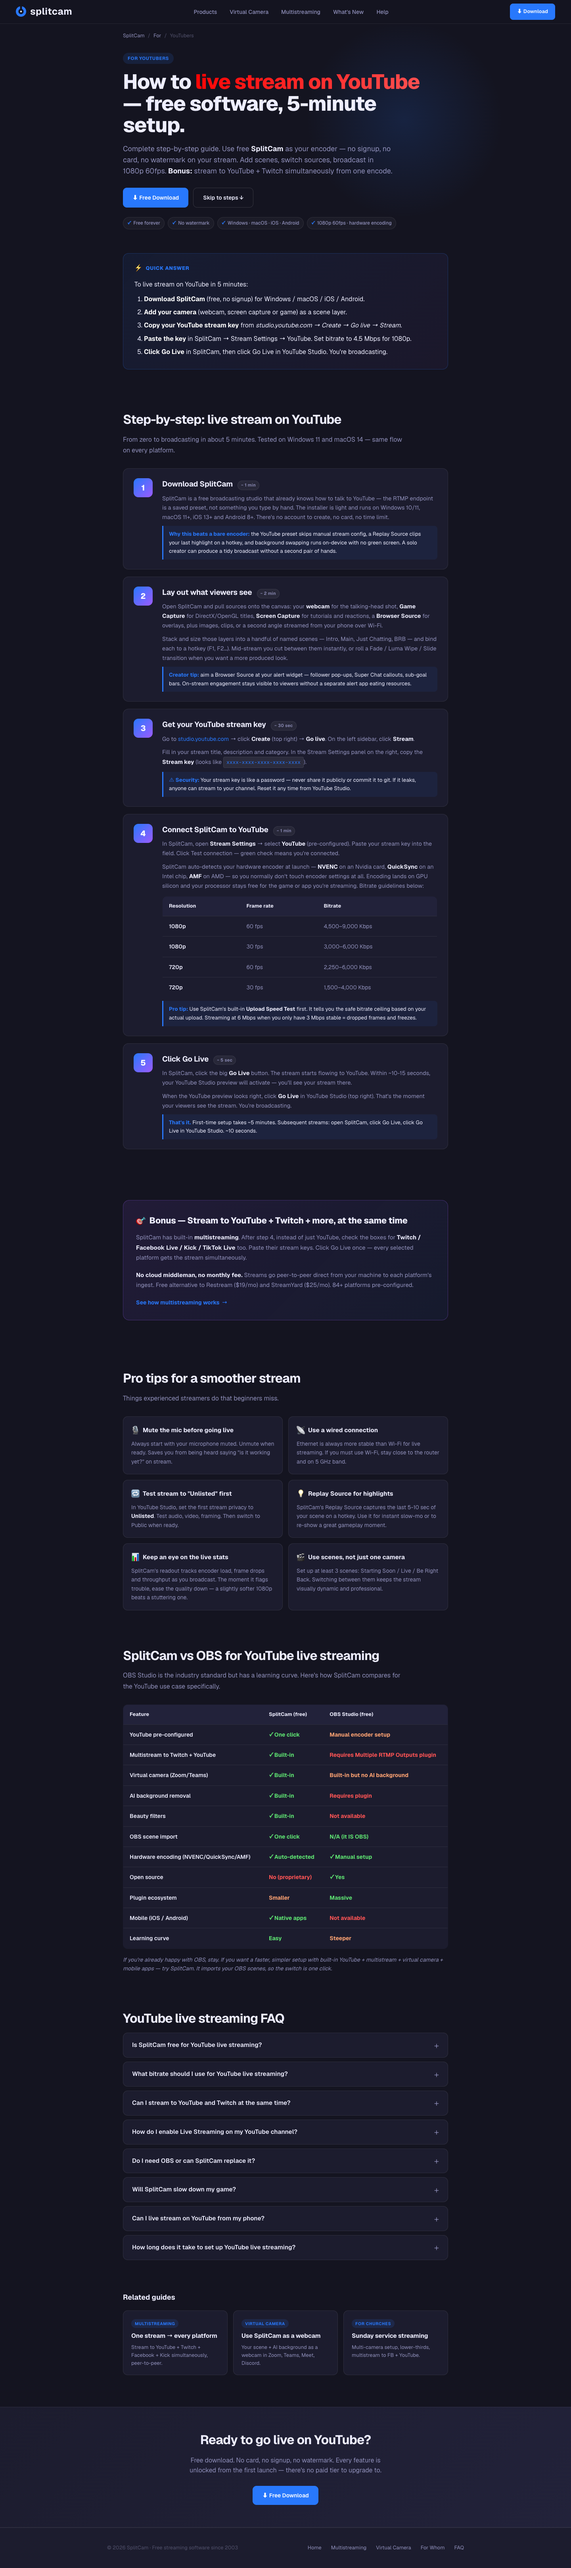
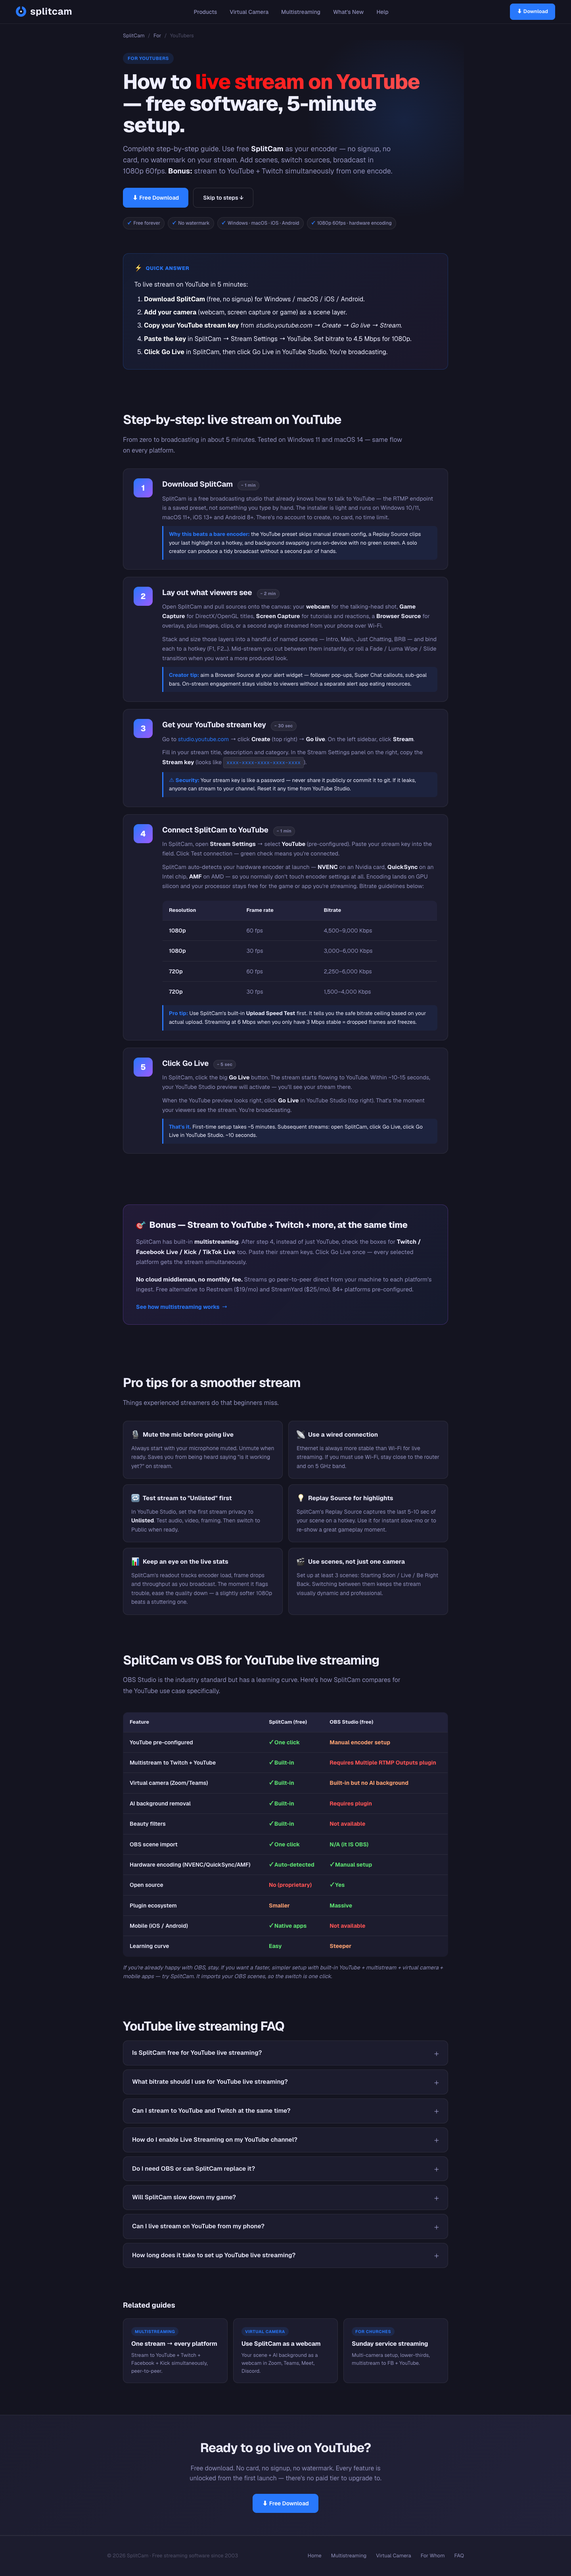
Fix mobile layout: scrollable comparison tables, contained hero-glow
Wraps every .compare-table in a .table-wrap (overflow-x:auto) so wide
tables scroll horizontally on mobile instead of clipping their rightmost
column off-screen — the OBS / vMix / ProPresenter columns are reachable
again. Adds overflow:hidden to .hero so the decorative glow no longer
adds horizontal page width. Desktop layout unchanged. Screenshots refreshed.

diff --git a/for/youtubers/index.html b/for/youtubers/index.html
@@ -134,7 +134,7 @@ nav{position:fixed;top:0;left:0;right:0;z-index:100;height:60px;display:flex;ali
 .breadcrumbs .sep{margin:0 8px}
 
 /* HERO */
-.hero{padding:32px 40px 60px;max-width:900px;margin:0 auto;position:relative}
+.hero{padding:32px 40px 60px;max-width:900px;margin:0 auto;position:relative;overflow:hidden}
 .hero-glow{position:absolute;top:-50px;right:-100px;width:500px;height:500px;background:radial-gradient(circle,rgba(40,120,252,.15),transparent 70%);pointer-events:none;z-index:0}
 .eyebrow{display:inline-block;padding:5px 12px;background:var(--blue-dim);color:var(--blue);font-size:11.5px;font-weight:700;letter-spacing:.6px;text-transform:uppercase;border-radius:99px;margin-bottom:18px;position:relative;z-index:1}
 .h1{font-size:clamp(34px,4.5vw,52px);font-weight:800;line-height:1.05;letter-spacing:-1.5px;margin-bottom:18px;max-width:780px;position:relative;z-index:1}
@@ -189,6 +189,7 @@ nav{position:fixed;top:0;left:0;right:0;z-index:100;height:60px;display:flex;ali
 .bonus-link::after{content:'→'}
 
 /* Compare table */
+.table-wrap{overflow-x:auto;-webkit-overflow-scrolling:touch}
 .compare-table{width:100%;border-collapse:collapse;margin-top:8px;background:var(--app-panel);border:1px solid var(--app-border);border-radius:12px;overflow:hidden}
 .compare-table th{padding:14px 16px;text-align:left;font-size:13px;font-weight:700;color:var(--text);background:var(--app-surface);border-bottom:1px solid var(--app-border)}
 .compare-table td{padding:14px 16px;font-size:14px;color:var(--text-sub);border-bottom:1px solid var(--app-border)}
@@ -341,7 +342,7 @@ footer{padding:40px;border-top:1px solid var(--app-border);background:var(--app-
         <div class="step-h">Connect SplitCam to YouTube <span class="step-time">~ 1 min</span></div>
         <p class="step-p">In SplitCam, open <strong style="color:var(--text)">Stream Settings</strong> → select <strong style="color:var(--text)">YouTube</strong> (pre-configured). Paste your stream key into the field. Click Test connection — green check means you're connected.</p>
         <p class="step-p">SplitCam auto-detects your hardware encoder at launch — <strong style="color:var(--text)">NVENC</strong> on an Nvidia card, <strong style="color:var(--text)">QuickSync</strong> on an Intel chip, <strong style="color:var(--text)">AMF</strong> on AMD — so you normally don't touch encoder settings at all. Encoding lands on GPU silicon and your processor stays free for the game or app you're streaming. Bitrate guidelines below:</p>
-        <table class="compare-table" style="margin-top:14px">
+        <div class="table-wrap"><table class="compare-table" style="margin-top:14px">
           <thead><tr><th>Resolution</th><th>Frame rate</th><th>Bitrate</th></tr></thead>
           <tbody>
             <tr><td>1080p</td><td>60 fps</td><td>4,500–9,000 Kbps</td></tr>
@@ -349,7 +350,7 @@ footer{padding:40px;border-top:1px solid var(--app-border);background:var(--app-
             <tr><td>720p</td><td>60 fps</td><td>2,250–6,000 Kbps</td></tr>
             <tr><td>720p</td><td>30 fps</td><td>1,500–4,000 Kbps</td></tr>
           </tbody>
-        </table>
+        </table></div>
         <div class="step-tip"><b>Pro tip:</b> Use SplitCam's built-in <strong>Upload Speed Test</strong> first. It tells you the safe bitrate ceiling based on your actual upload. Streaming at 6 Mbps when you only have 3 Mbps stable = dropped frames and freezes.</div>
       </div>
     </div>
@@ -412,7 +413,7 @@ footer{padding:40px;border-top:1px solid var(--app-border);background:var(--app-
 <section class="section">
   <h2 class="sec-h">SplitCam vs OBS for YouTube live streaming</h2>
   <p class="sec-p">OBS Studio is the industry standard but has a learning curve. Here's how SplitCam compares for the YouTube use case specifically.</p>
-  <table class="compare-table">
+  <div class="table-wrap"><table class="compare-table">
     <thead>
       <tr><th>Feature</th><th>SplitCam (free)</th><th>OBS Studio (free)</th></tr>
     </thead>
@@ -429,7 +430,7 @@ footer{padding:40px;border-top:1px solid var(--app-border);background:var(--app-
       <tr><td>Mobile (iOS / Android)</td><td class="yes">✓ Native apps</td><td class="no">Not available</td></tr>
       <tr><td>Learning curve</td><td class="yes">Easy</td><td class="meh">Steeper</td></tr>
     </tbody>
-  </table>
+  </table></div>
   <p style="margin-top:16px;font-size:14px;color:var(--text-sub);font-style:italic">If you're already happy with OBS, stay. If you want a faster, simpler setup with built-in YouTube + multistream + virtual camera + mobile apps — try SplitCam. It imports your OBS scenes, so the switch is one click.</p>
 </section>
 

diff --git a/for/churches/index.html b/for/churches/index.html
@@ -138,7 +138,7 @@ nav{position:fixed;top:0;left:0;right:0;z-index:100;height:60px;display:flex;ali
 .breadcrumbs .sep{margin:0 8px}
 
 /* HERO */
-.hero{padding:32px 40px 60px;max-width:900px;margin:0 auto;position:relative}
+.hero{padding:32px 40px 60px;max-width:900px;margin:0 auto;position:relative;overflow:hidden}
 .hero-glow{position:absolute;top:-50px;right:-100px;width:500px;height:500px;background:radial-gradient(circle,rgba(156,91,255,.15),transparent 70%);pointer-events:none;z-index:0}
 .eyebrow{display:inline-block;padding:5px 12px;background:var(--blue-dim);color:var(--blue);font-size:11.5px;font-weight:700;letter-spacing:.6px;text-transform:uppercase;border-radius:99px;margin-bottom:18px;position:relative;z-index:1}
 .h1{font-size:clamp(34px,4.5vw,52px);font-weight:800;line-height:1.05;letter-spacing:-1.5px;margin-bottom:18px;max-width:780px;position:relative;z-index:1}
@@ -193,6 +193,7 @@ nav{position:fixed;top:0;left:0;right:0;z-index:100;height:60px;display:flex;ali
 .bonus-link::after{content:'→'}
 
 /* Compare table */
+.table-wrap{overflow-x:auto;-webkit-overflow-scrolling:touch}
 .compare-table{width:100%;border-collapse:collapse;margin-top:8px;background:var(--app-panel);border:1px solid var(--app-border);border-radius:12px;overflow:hidden}
 .compare-table th{padding:14px 16px;text-align:left;font-size:13px;font-weight:700;color:var(--text);background:var(--app-surface);border-bottom:1px solid var(--app-border)}
 .compare-table td{padding:14px 16px;font-size:14px;color:var(--text-sub);border-bottom:1px solid var(--app-border)}
@@ -463,7 +464,7 @@ footer{padding:40px;border-top:1px solid var(--app-border);background:var(--app-
 <section class="section">
   <h2 class="sec-h">SplitCam vs vMix vs ProPresenter for church streaming</h2>
   <p class="sec-p">The three tools churches most often compare. Honest table — each has strengths.</p>
-  <table class="compare-table">
+  <div class="table-wrap"><table class="compare-table">
     <thead>
       <tr><th>Feature</th><th>SplitCam</th><th>vMix</th><th>ProPresenter</th></tr>
     </thead>
@@ -480,7 +481,7 @@ footer{padding:40px;border-top:1px solid var(--app-border);background:var(--app-
       <tr><td>Subscription required</td><td class="yes">No</td><td class="yes">No (one-time)</td><td class="yes">No (one-time)</td></tr>
       <tr><td>Best for</td><td>Free, all-in-one Sunday stream</td><td>Pro-AV churches w/ budget</td><td>Worship/song-focused churches</td></tr>
     </tbody>
-  </table>
+  </table></div>
   <p style="margin-top:16px;font-size:14px;color:var(--text-sub);font-style:italic">Many larger churches run <strong style="color:var(--text)">ProPresenter for in-room lyrics</strong> and <strong style="color:var(--text)">SplitCam for the livestream</strong> — feed ProPresenter's network web output into SplitCam as a Browser Source. Best of both, $0 added for the streaming side.</p>
 </section>
 

diff --git a/alternatives/obs/index.html b/alternatives/obs/index.html
@@ -127,7 +127,7 @@ nav{position:fixed;top:0;left:0;right:0;z-index:100;height:60px;display:flex;ali
 .breadcrumbs .sep{margin:0 8px}
 
 /* HERO */
-.hero{padding:32px 40px 60px;max-width:900px;margin:0 auto;position:relative}
+.hero{padding:32px 40px 60px;max-width:900px;margin:0 auto;position:relative;overflow:hidden}
 .hero-glow{position:absolute;top:-50px;right:-100px;width:500px;height:500px;background:radial-gradient(circle,rgba(40,120,252,.15),transparent 70%);pointer-events:none;z-index:0}
 .eyebrow{display:inline-block;padding:5px 12px;background:var(--blue-dim);color:var(--blue);font-size:11.5px;font-weight:700;letter-spacing:.6px;text-transform:uppercase;border-radius:99px;margin-bottom:18px;position:relative;z-index:1}
 .h1{font-size:clamp(34px,4.5vw,52px);font-weight:800;line-height:1.05;letter-spacing:-1.5px;margin-bottom:18px;max-width:780px;position:relative;z-index:1}
@@ -198,6 +198,7 @@ nav{position:fixed;top:0;left:0;right:0;z-index:100;height:60px;display:flex;ali
 .step-code{display:inline-block;padding:2px 7px;background:rgba(255,255,255,.07);border:1px solid var(--app-border);border-radius:4px;font-family:'Geist Mono',monospace;font-size:13px;color:var(--blue)}
 
 /* Compare table */
+.table-wrap{overflow-x:auto;-webkit-overflow-scrolling:touch}
 .compare-table{width:100%;border-collapse:collapse;margin-top:8px;background:var(--app-panel);border:1px solid var(--app-border);border-radius:12px;overflow:hidden}
 .compare-table th{padding:14px 16px;text-align:left;font-size:13px;font-weight:700;color:var(--text);background:var(--app-surface);border-bottom:1px solid var(--app-border)}
 .compare-table td{padding:14px 16px;font-size:14px;color:var(--text-sub);border-bottom:1px solid var(--app-border)}
@@ -468,7 +469,7 @@ footer{padding:40px;border-top:1px solid var(--app-border);background:var(--app-
 <section class="section" id="compare">
   <h2 class="sec-h">SplitCam vs OBS Studio — feature-by-feature</h2>
   <p class="sec-p">Honest comparison. Where OBS wins, OBS wins. Where SplitCam wins, SplitCam wins.</p>
-  <table class="compare-table">
+  <div class="table-wrap"><table class="compare-table">
     <thead>
       <tr><th>Feature</th><th>SplitCam</th><th>OBS Studio</th></tr>
     </thead>
@@ -490,7 +491,7 @@ footer{padding:40px;border-top:1px solid var(--app-border);background:var(--app-
       <tr><td>Learning curve</td><td class="yes">Easy</td><td class="meh">Steeper</td></tr>
       <tr><td>UI age / polish</td><td class="yes">Modern</td><td class="meh">Functional, dated</td></tr>
     </tbody>
-  </table>
+  </table></div>
 </section>
 
 <!-- OTHER ALTERNATIVES (for completeness, for ItemList schema) -->
